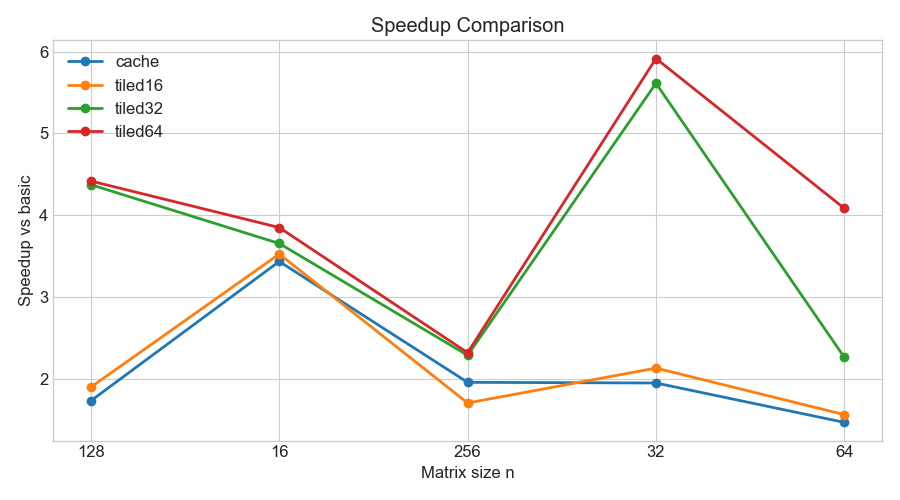
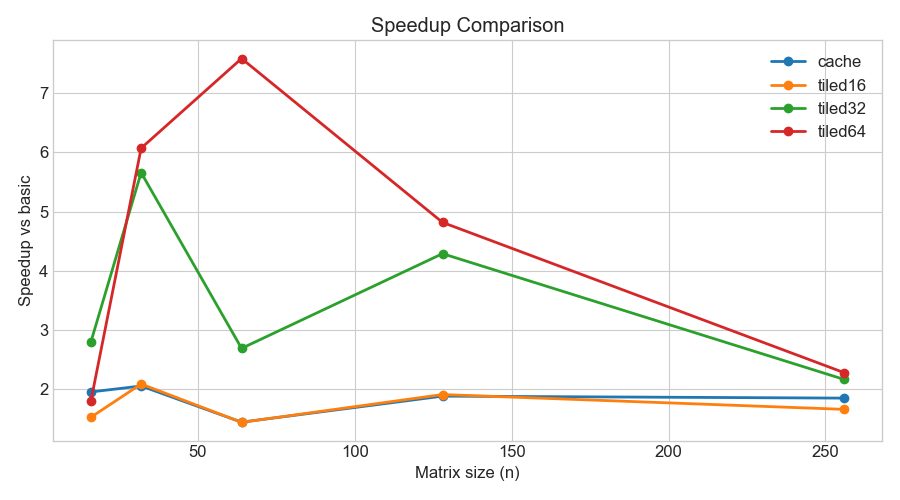
correccion

diff --git a/Task_2/plot_results_task2.py b/Task_2/plot_results_task2.py
@@ -1,51 +1,60 @@
 import pandas as pd
 import matplotlib.pyplot as plt
 
+# ---------------------------------------------------------------------
+# Global plot style
+# ---------------------------------------------------------------------
 plt.style.use("seaborn-v0_8-whitegrid")
 plt.rcParams["figure.figsize"] = (9, 5)
 plt.rcParams["font.size"] = 12
 
-# ======================================================
-# Load CSV containing all runs (dense + sparse)
-# ======================================================
+# ---------------------------------------------------------------------
+# Load CSV
+# ---------------------------------------------------------------------
 df = pd.read_csv("results/benchmark_task2_results.csv", header=None)
 df.columns = ["lang", "algorithm", "n", "runs", "mean", "best", "worst"]
 
-dense = df[df["algorithm"].isin(["basic", "cache", "tiled16", "tiled32", "tiled64"])]
-dense = dense.sort_values("n")
+# ---------------------------------------------------------------------
+# FIX: Convert n to int ONLY for dense methods
+# ---------------------------------------------------------------------
+dense_mask = df["algorithm"].isin(["basic", "cache", "tiled16", "tiled32", "tiled64"])
+df.loc[dense_mask, "n"] = df.loc[dense_mask, "n"].astype(int)
 
-# ======================================================
-# 1. Time vs matrix size (ALL n)
-# ======================================================
+# Extract dense methods
+dense = df[dense_mask].sort_values("n")
+
+# ---------------------------------------------------------------------
+# 1. TIME VS N
+# ---------------------------------------------------------------------
 plt.figure()
-
 for method in ["basic", "cache", "tiled16", "tiled32", "tiled64"]:
     sub = dense[dense["algorithm"] == method]
     if not sub.empty:
         plt.plot(sub["n"], sub["mean"], marker="o", linewidth=2, label=method)
 
-plt.xlabel("Matrix size n")
-plt.ylabel("Execution time (s)")
+plt.xlabel("Matrix size (n)")
+plt.ylabel("Mean execution time (s)")
 plt.title("Dense Matrix Multiplication – Time vs n")
 plt.legend()
 plt.tight_layout()
 plt.savefig("results/dense_time_vs_n.png")
 plt.close()
 
-# ======================================================
-# 2. Speedup vs basic (ALL n)
-# ======================================================
+# ---------------------------------------------------------------------
+# 2. SPEEDUP VS N
+# ---------------------------------------------------------------------
 basic_times = dense[dense["algorithm"] == "basic"].groupby("n")["mean"].mean()
+sorted_ns = sorted(basic_times.index)
 
 plt.figure()
 for method in ["cache", "tiled16", "tiled32", "tiled64"]:
     sub = dense[dense["algorithm"] == method].groupby("n")["mean"].mean()
-    common = basic_times.index.intersection(sub.index)
+    common = [n for n in sorted_ns if n in sub.index]
     if len(common) > 0:
-        speedup = basic_times.loc[common] / sub.loc[common]
+        speedup = [basic_times.loc[n] / sub.loc[n] for n in common]
         plt.plot(common, speedup, marker="o", linewidth=2, label=method)
 
-plt.xlabel("Matrix size n")
+plt.xlabel("Matrix size (n)")
 plt.ylabel("Speedup vs basic")
 plt.title("Speedup Comparison")
 plt.legend()
@@ -53,15 +62,15 @@ plt.tight_layout()
 plt.savefig("results/dense_speedup_vs_n.png")
 plt.close()
 
-# ======================================================
-# 3. Dense vs sparse (global)
-# ======================================================
+# ---------------------------------------------------------------------
+# 3. DENSE VS SPARSE
+# ---------------------------------------------------------------------
 dense_mean = dense["mean"].mean()
-
 sparse = df[df["algorithm"] == "sparseCSR"]
+
 if not sparse.empty:
     sparse_mean = sparse["mean"].mean()
-    labels = ["Dense avg", "Sparse (CSR)"]
+    labels = ["Dense avg", "Sparse CSR"]
     values = [dense_mean, sparse_mean]
 
     plt.figure()
@@ -69,13 +78,11 @@ if not sparse.empty:
     plt.plot(labels, values, marker="o", linewidth=2)
     for l, v in zip(labels, values):
         plt.text(l, v, f"{v:.2e}", ha="center", va="bottom")
+
     plt.ylabel("Execution time (log scale)")
-    plt.title("Dense vs Sparse (Global Comparison)")
+    plt.title("Dense vs Sparse (CSR)")
     plt.tight_layout()
     plt.savefig("results/dense_vs_sparse.png")
     plt.close()
 
-print(" All plots generated in results/:")
-print("   - dense_time_vs_n.png")
-print("   - dense_speedup_vs_n.png")
-print("   - dense_vs_sparse.png")
+print("All plots successfully generated!")
